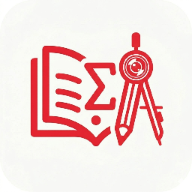
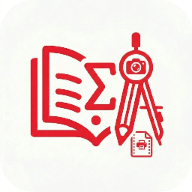
아이콘 이미지 변경

Changed region(s): [[0.6562, 0.6562, 0.8125, 0.8438], [0.625, 0.2812, 0.7812, 0.4375]]

diff --git a/components/TopNav.tsx b/components/TopNav.tsx
@@ -15,7 +15,7 @@ const nav = [
 ];
 
 const otherApps = [
-  { name: "SnapWord", iconUrl: "https://snapword.myjane.co.kr/site-title-icon.png", href: "https://snapword.myjane.co.kr/home" },
+  { name: "SnapWord", iconUrl: "/snapword-link-icon.png", href: "https://snapword.myjane.co.kr/home" },
 ];
 
 export function TopNav() {
